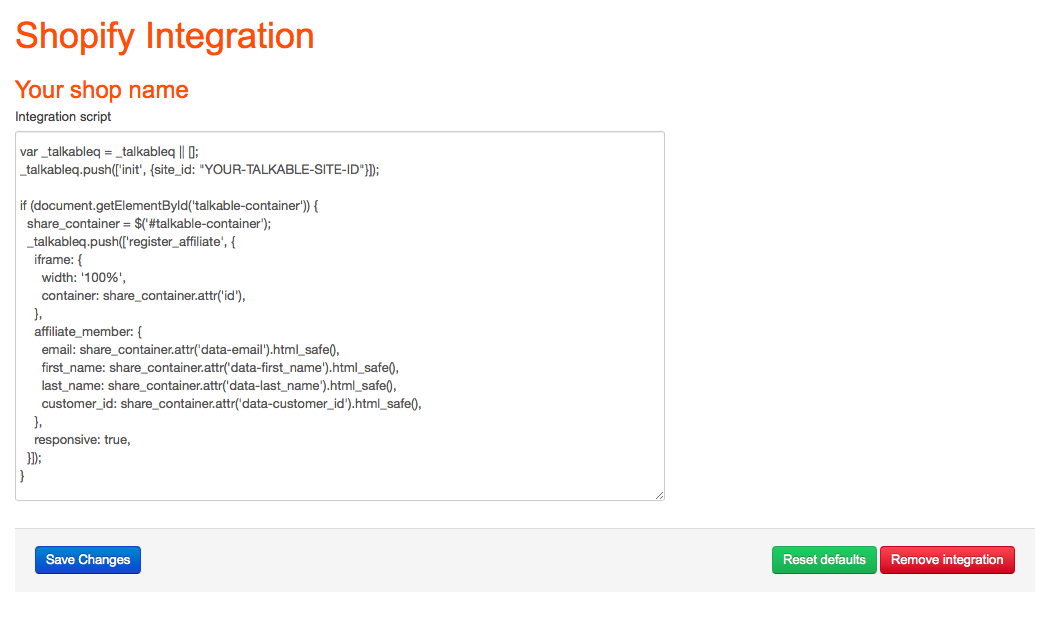
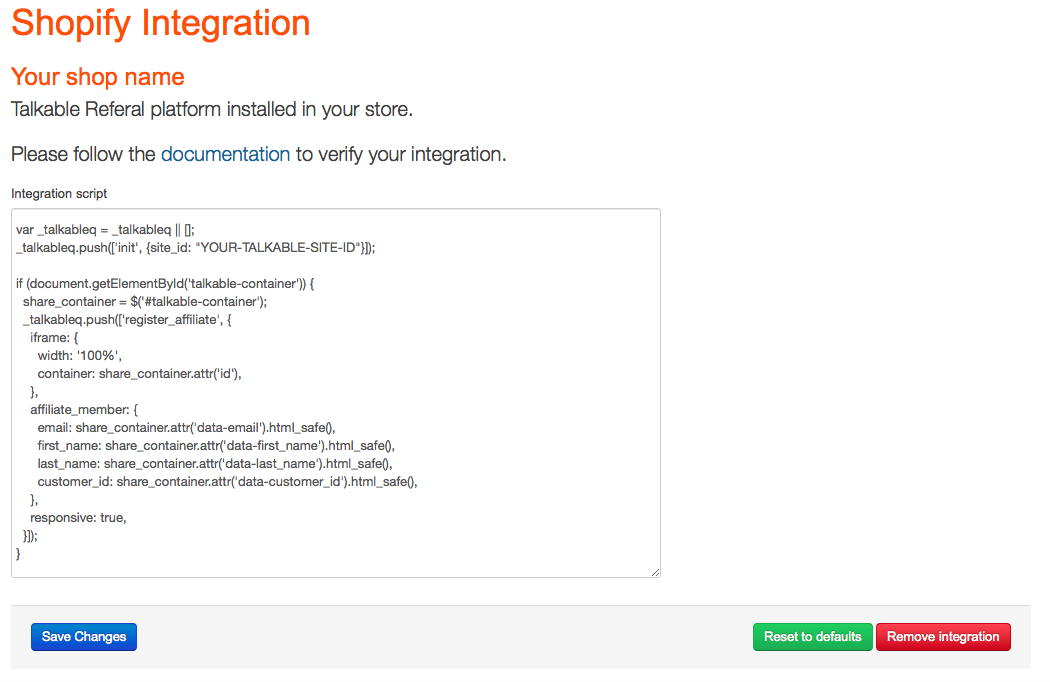
[#90011176] Chore: Documentation for Shopify Extension

Changed region(s): [[0.0, 0.0, 0.4876, 0.8314], [0.0305, 0.8314, 0.64, 0.9546], [0.701, 0.8622, 0.9752, 0.9546]]

diff --git a/source/samples/ecommerce/platform/shopify.rst b/source/samples/ecommerce/platform/shopify.rst
@@ -3,38 +3,37 @@
   <!-- Begin Talkable integration code -->
   <script type="text/javascript">
     //<![CDATA[
-      (function(){function load_js(){var s=document.createElement('script');s.type='text/javascript';s.async=true; s.src='|integration_url|'; var x=document.getElementsByTagName('script')[0];x.parentNode.insertBefore(s,x)} if(window.attachEvent)window.attachEvent('onload',load_js);else window.addEventListener('load',load_js,false)})();
+    !function(){var e=document.createElement("script");e.type="text/javascript",e.async=!0,e.src="//d2jjzw81hqbuqv.cloudfront.net/integration/talkable-1.0.min.js";var t=document.getElementsByTagName("script")[0];t.parentNode.insertBefore(e,t)}();
+    String.prototype.html_safe||(String.prototype.html_safe=function(){return $("<span/>").text(this).html()});
 
-      var _talkableq = _talkableq || [];
-      _talkableq.push(['init', { site_id: 'YOUR-TALKABLE-SITE-ID' }]); /* REQUIRED - Replace with your Talkable Site ID */
+    var _talkableq = _talkableq || [];
+    _talkableq.push(['init', {site_id: "YOUR-TALKABLE-SITE-ID"}]); /* REQUIRED - Replace with your Talkable Site ID */
+
+    if (Shopify && Shopify.checkout) {
+      checkout = Shopify.checkout
       var _talkable_order_items = [];
-      {% for line in line_items %}
+      for (idx in checkout.line_items) {
+        line = checkout.line_items[idx];
         _talkable_order_items.push({
-          product_id: '{% if line.sku and line.sku != "" %}{{ line.sku }}{% else %}{{ line.product.id }}{% endif %}', /* REQUIRED - First Item Product ID */
-          price: '{{ line.price | money_without_currency }}', /* REQUIRED - First Item Unit Price */
-          quantity: '{{ line.quantity }}', /* REQUIRED - First Item Quantity */
-          title: '{{ line.title }}', /* Optional - Name of product */
-          url: '{{ shop.url }}{{ line.product.url }}', /* Optional - URL for product */
-          image_url: '{{ line.product.featured_image | product_img_url }}' /* Optional - URL for product image */
+          product_id: line.sku || line.product_id, /* REQUIRED - First Item Product ID */
+          price: line.price, /* REQUIRED - First Item Unit Price */
+          quantity: line.quantity, /* REQUIRED - First Item Quantity */
+          title: line.title, /* Optional - Name of product */
         });
-      {% endfor %}
-
-      var couponCodes = [];
-      {% for discount in discounts %}
-        couponCodes.push('{{ discount.code }}');
-      {% endfor %}
+      }
 
       var _talkable_order_details = {
-        order_number: '{{ order_name }}', /* REQUIRED - Order number */
-        order_date: '{{ created_at }}', /* REQUIRED - Order Date and Time (ISO 8601 formatted datetime) */
-        email: '{{ customer.email }}', /* REQUIRED - Customer Email Address */
-        customer_id: '', /* Optional - Set to your internal customer ID for tracking */
-        subtotal: '{{ subtotal_price | money_without_currency }}', /* REQUIRED - Purchase Subtotal */
-        coupon_code: couponCodes,
-        items: _talkable_order_items
+        order_number: checkout.order_id, /* REQUIRED - Order number */
+        order_date: checkout.created_at, /* REQUIRED - Order Date and Time (ISO 8601 formatted datetime) */
+        email: checkout.email, /* REQUIRED - Customer Email Address */
+        subtotal: checkout.total_price, /* REQUIRED - Purchase Subtotal */
+        coupon_code: checkout.discount ? checkout.discount.code : null,
+        items: _talkable_order_items,
+        responsive: true,
       };
 
       _talkableq.push(['register_purchase', _talkable_order_details]);
+    }
     //]]>
   </script>
   <!-- End Talkable integration code -->

diff --git a/source/ecommerce/platform/shopify.rst b/source/ecommerce/platform/shopify.rst
@@ -11,11 +11,9 @@ Automatic integration
 ---------------------
 
 1. In your Talkable administration panel, go to
-   **Dashboard** |rarr| **Site Settings** |rarr| **Shopify Integration**.
-2. Click **Initial Setup**
-
-   .. image:: /_static/img/shopify-initial-setup.png
-      :alt: Shopify initial setup
+   **Dashboard** |rarr| **Shopify Integration**.
+   
+2. Then click **Install Talkable** in your Shopify administration panel.
       
 3. Modify existing integration script if needed
 
@@ -24,7 +22,7 @@ Automatic integration
 
 |br|
 
-:ref:`Verifying Integration Instructions <ecommerce/verify>`
+4. Verify your integration using :ref:`Verifying Integration Instructions <ecommerce/verify>`.
 
 Manual integration
 ------------------
@@ -44,7 +42,7 @@ Manual integration
 
 :ref:`Verifying Integration Instructions <ecommerce/verify>`
 
-.. _Shopify Talkable application: https://apps.shopify.com/talkable-referral-platform
+.. _Shopify Talkable application: https://apps.shopify.com/talkable
 
 .. container:: hidden
 
